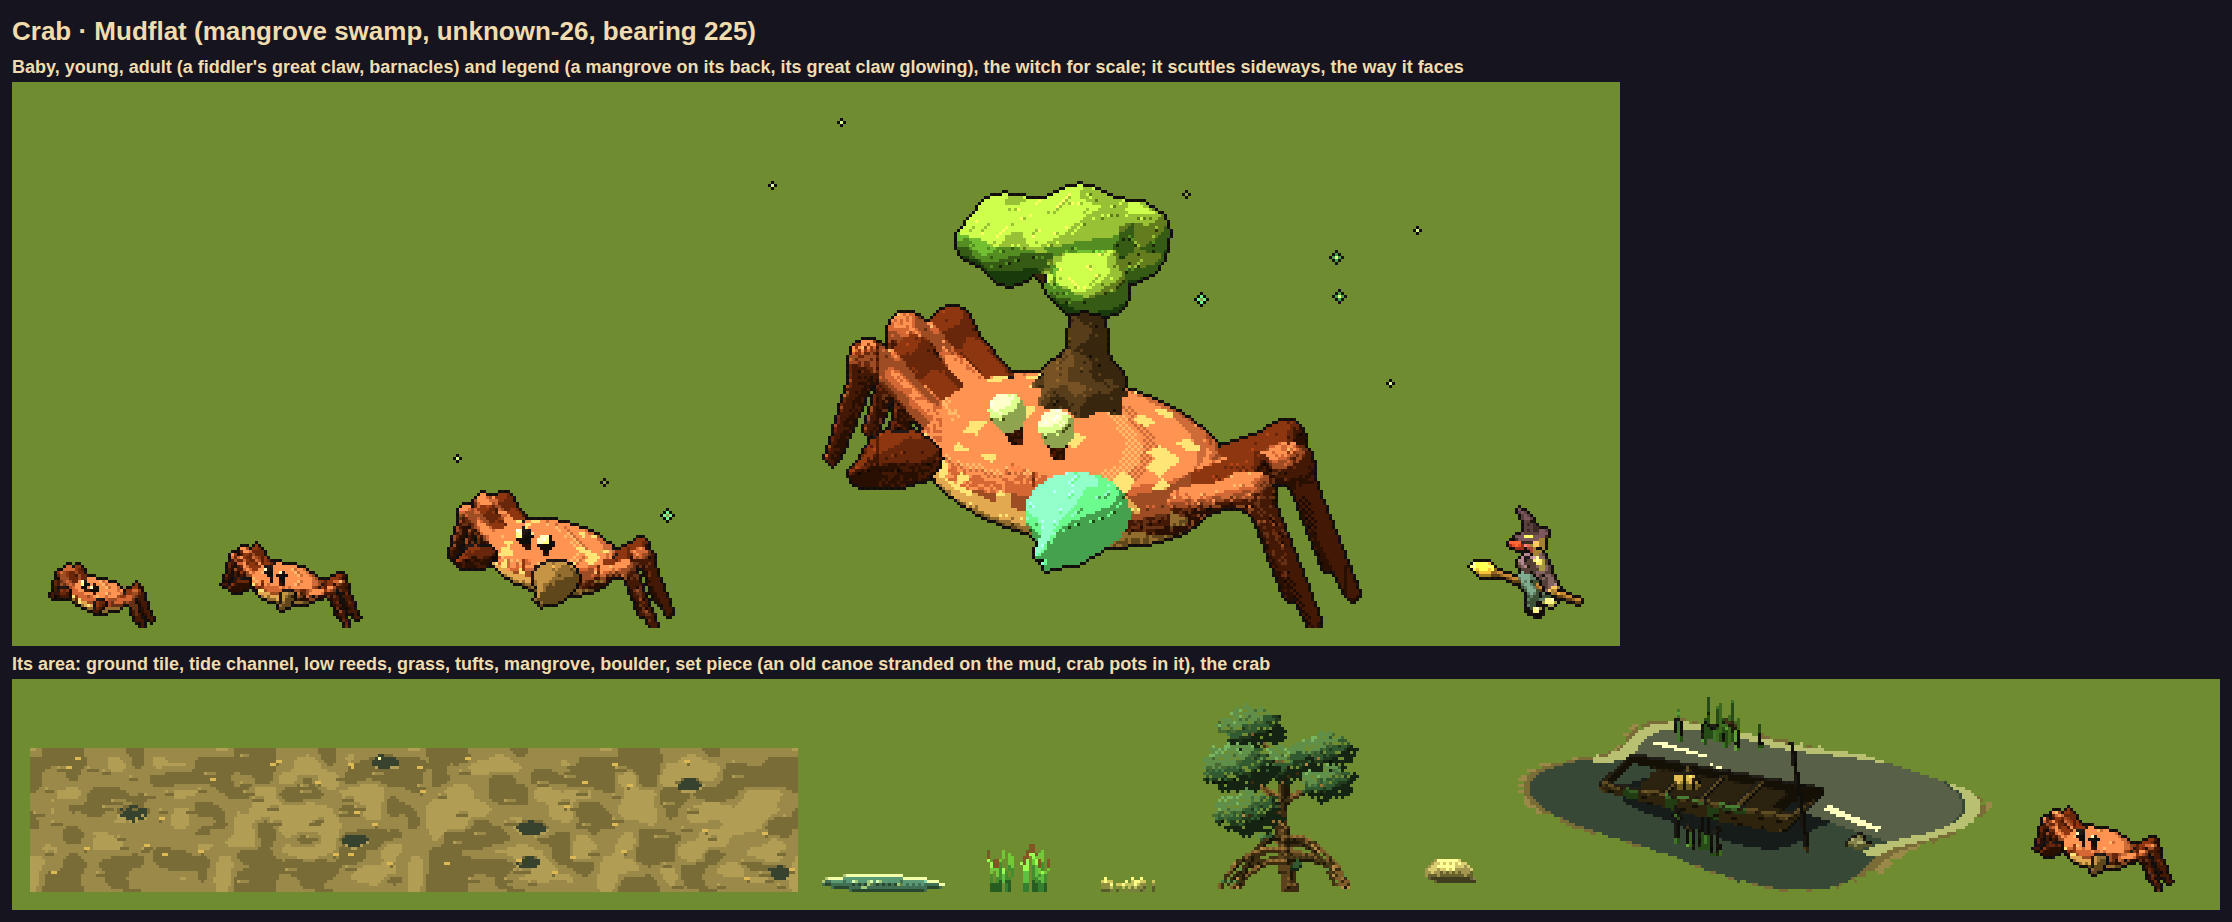
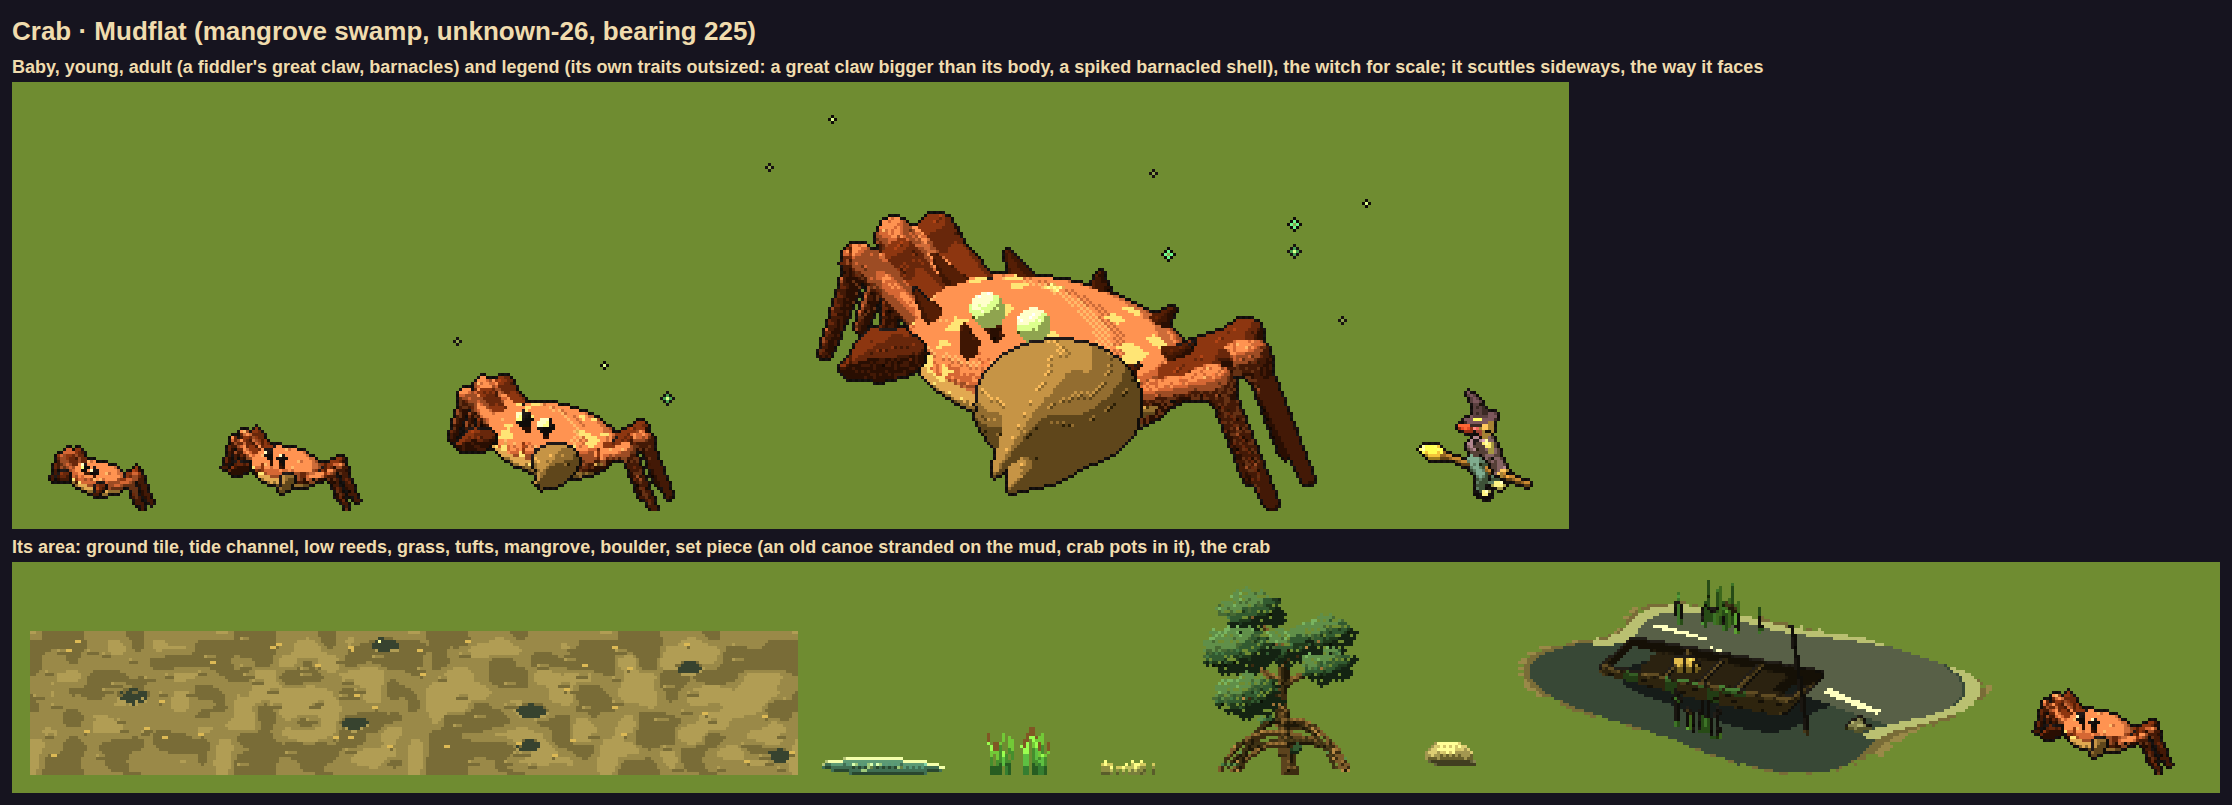
Mangrove mocks: the legends exaggerate their own animal (Ed): the dragonfly all eye and wing, the crab all claw and armour
Claude-Session: https://claude.ai/code/session_01FVGKHvaavDn5xGsWtRTBaz

Changed region(s): [[0.0, 0.0, 1.0, 0.9938]]

diff --git a/art/creatures3d.js b/art/creatures3d.js
@@ -880,7 +880,8 @@ export function moth3d(S, level, frame, st, facing = "towards") {
 // with four long glassy wings, veined, a dark mark near each tip; a long thin segmented tail, a stout thorax, a head that is nearly
 // all eye. Its levels (the genome's levelQ): the baby a wingless nymph down on six legs with wing buds and a hinged mask under its
 // jaw (a nymph lives in the water; DECISION FOR ED), the young freshly out, its wings short and its colours dull, the adult bright
-// and metallic, the legend's wings long and glowing, a trail of light off its tail. Two frames: wings raised, wings lowered.
+// and metallic, the legend its own traits outsized (Ed: a legend exaggerates what defines its animal): eyes wrapping its whole
+// head (feature eyesHuge), a third pair of wings (wingsMore), a longer tail. Two frames: wings raised, wings lowered.
 const dfWing = (mat, vein, stig) => (s, t) => {
   const u = (s + 1) / 2, half = .9 * Math.pow(Math.sin(Math.PI * Math.min(1, .06 + u * .97)), .55) * (1 - .2 * u);
   if (Math.abs(t) > half) return null;
@@ -904,22 +905,21 @@ export function dragonfly3d(S, level, frame, st, facing = "towards") {
     m.anchors.neck = { c: [.1, y + .05, 0], r: .09, dir: [1, 0, 0] };
     return finish(m, S, level, st, .35, facing);
   }
-  const up = frame === 0, y = .55, span = (q.wing ?? 1) * (has("wingsBig") ? 1.35 : 1), tl = q.tail ?? 1;
-  const glass = has("wingsBig") ? M.MAGIC2 : M.BELLY, vein = has("wingsBig") ? M.MAGIC : M.BODY3, stig = has("wingsBig") ? M.MAGIC : M.BODY3;
+  const up = frame === 0, y = .55, span = q.wing ?? 1, tl = q.tail ?? 1;
+  const glass = M.BELLY, vein = M.BODY3, stig = M.BODY3, pairs = has("wingsMore") ? [[0, .05, .62], [1, -.06, .58], [2, -.16, .5]] : [[0, .05, .62], [1, -.06, .58]];
   shadow(m, -.15, .2 * span);
-  for (const side of [-1, 1]) for (const [k, dx, len] of [[0, .05, .62], [1, -.06, .58]]) { // fore and hind wings, straight out, flicking up and down
+  for (const side of [-1, 1]) for (const [k, dx, len] of pairs) { // fore and hind wings, straight out, flicking up and down
     const lift = (up ? .45 : -.25) * (k ? .8 : 1), root = [dx, y + .07, side * .05], dir = v3.norm([k ? -.18 : .12, lift, side]);
     const across = v3.norm(v3.cross(dir, [0, 1, 0]));
     m.flat(v3.add(root, v3.mul(dir, len * span * .5)), dir, across, len * span * .5, (k ? .16 : .13) * span, dfWing(glass, vein, stig), { group: 10 + k * 2 + (side > 0 ? 1 : 0), extra: true });
   }
   // the tail: ten segments, long and thin, banded, curving a little down
   for (let i = 0; i < 10; i++) { const t = i / 9, x = -.12 - t * .78 * tl, yy = y - .02 - t * t * .1; m.ell([x, yy, 0], [.05 * tl, .036 - t * .008, .036 - t * .008], i % 3 === 2 ? M.BODY3 : i % 2 ? M.BODY2 : M.BODY, { group: 3 }); }
-  if (has("trail")) for (let i = 0; i < 4; i++) m.ell([-1.02 - i * .1, y - .13 - i * .015, 0], [.025 - i * .004, .025 - i * .004, .025 - i * .004], i % 2 ? M.MAGIC : M.MAGIC2, { group: 90 + i, extra: true });
   m.ell([0, y, 0], [.13, .1, .09], M.BODY, { group: 1, paint: p => p[1] > y + .05 ? M.BODY2 : undefined }); // the thorax
   for (const side of [-1, 1]) for (let i = 0; i < 3; i++) m.seg([.03 - i * .04, y - .07, side * .04], [.08 - i * .07, y - .13, side * .09], .01, .006, M.BODY3, { group: side > 0 ? 7 : 2 }); // its legs, held under it
-  const hc = [.16, y + .02, 0], hr = [.08, .085, .11];
+  const ek = has("eyesHuge") ? 1.6 : 1, hc = [.16, y + .02, 0], hr = [.08 * ek, .085 * ek, .11 * ek];
   m.ell(hc, hr, M.BODY2, { group: 1 });
-  for (const side of [-1, 1]) m.ell(Model.surface(hc, hr, v3.norm([.3, .4, side])), [.07, .075, .06], legend ? M.MAGIC2 : M.EYE, { group: 8 + (side > 0 ? 1 : 0), paint: p => p[1] > hc[1] + .07 ? M.BELLY : undefined }); // the great eyes
+  for (const side of [-1, 1]) m.ell(Model.surface(hc, hr, v3.norm([.3, .4, side])), [.07 * ek, .075 * ek, .06 * ek], legend ? M.MAGIC2 : M.EYE, { group: 8 + (side > 0 ? 1 : 0), paint: p => p[1] > hc[1] + .07 * ek ? M.BELLY : undefined }); // the great eyes
   m.anchors.head = { c: hc, r: hr, top: [hc[0], hc[1] + .1, 0] };
   m.anchors.eyes = { pts: [-1, 1].map(side => Model.surface(hc, hr, v3.norm([.3, .4, side]))), size: .06 };
   m.anchors.neck = { c: [.09, y, 0], r: .08, dir: [1, 0, 0] };
@@ -929,8 +929,9 @@ export function dragonfly3d(S, level, frame, st, facing = "towards") {
 // The crab (Ed, 2026-10-12: the mangrove swamp's mudflats and roots, unknown-26; "sideways scuttling movement"): a broad carapace
 // carried sideways, so it scuttles the way it faces: its length across the screen, its claws and stalked eyes towards the camera,
 // four walking legs out to each side, stepping in two alternating sets. Its levels (levelQ): the baby small, round and pale, its claws
-// alike; the young a darker shell and one claw growing; the adult a fiddler's great claw, barnacles on its shell; the legend a giant
-// with a mangrove growing from its back (feature tree) and its great claw glowing (feature clawGlow).
+// alike; the young a darker shell and one claw growing; the adult a fiddler's great claw, barnacles on its shell; the legend its own
+// traits outsized (Ed: a legend exaggerates what defines its animal): a great claw bigger than its body (levelQ claw) and a
+// shell spiked round its rim and crusted with barnacles (feature spikes).
 export function crab3d(S, level, frame, st, facing = "towards") {
   const legend = level === 3, has = f => legend && S.legend.includes(f), m = new Model(), q = S.levelQ?.[level] || {};
   const cw = q.shell ?? 1, big = q.claw ?? 1, y = .3 * cw;
@@ -942,7 +943,7 @@ export function crab3d(S, level, frame, st, facing = "towards") {
   m.ell(shell, sr, M.BODY, { paint: p => (q.barnacles && spotty(p, 18, .12)) ? M.BELLY : p[1] > y + sr[1] * .55 ? M.BODYL : undefined }); // the carapace, its top lit
   m.ell([0, y - sr[1] * .4, sr[2] * .3], [sr[0] * .85, sr[1] * .55, sr[2] * .8], M.BELLY, { group: 1 }); // its pale underside in front
   for (const side of [-1, 1]) { // the claws, at the front (towards the camera), the right one the great claw on a fiddler
-    const k = side > 0 ? big : 1, cm = has("clawGlow") && side > 0 ? M.MAGIC : side > 0 && big > 1.2 ? M.ACCENT : M.BODY2;
+    const k = side > 0 ? big : 1, cm = side > 0 && big > 1.2 ? M.ACCENT : M.BODY2;
     const el = [side * .22 * cw, y - .02, sr[2] * .9], hand = [side * (.24 + .06 * k) * cw, y + (.06 + .05 * k) * cw, (sr[2] + .1 + .06 * k) * cw];
     m.seg([side * .16 * cw, y - .04, sr[2] * .6], el, .04 * cw, .035 * cw, M.BODY2, { group: side > 0 ? 6 : 5 });
     m.ell(hand, [.1 * k * cw, .07 * k * cw, .08 * k * cw], cm, { group: side > 0 ? 6 : 5, dir: [side * .4, .3, 1] });
@@ -952,7 +953,7 @@ export function crab3d(S, level, frame, st, facing = "towards") {
   m.anchors.head = { c: [0, y + sr[1] * .7, sr[2] * .7], r: [.12, .1, .1], top: [0, y + sr[1] + .12, 0] };
   m.anchors.eyes = { pts: [-1, 1].map(side => [side * .09 * cw, y + sr[1] * .6 + .14 * cw, sr[2] * .7 + .04 * cw]), size: .04 * cw };
   m.anchors.neck = { c: [0, y + sr[1] * .2, sr[2] * .6], r: .14 * cw, dir: [0, 0, 1] };
-  if (has("tree")) backTree3d(m, [-.05, y + sr[1] * .8, -.08], .62, 7, "mangrove");
+  if (has("spikes")) for (let i = 0; i < 9; i++) { const a = Math.PI * (.08 + i / 8 * .84), b = [Math.cos(a) * sr[0] * .95, y + sr[1] * .35, Math.sin(a) * sr[2] * .95 * (i % 2 ? 1 : -1)]; m.seg(b, v3.add(b, [Math.cos(a) * .12 * cw, .1 * cw, 0]), .035 * cw, .006, M.BODY3, { group: 4 }); } // spikes round its rim
   return finish(m, S, level, st, .45, facing);
 }
 

diff --git a/art/genome/species.js b/art/genome/species.js
@@ -138,13 +138,13 @@ export const GENOMES = [
   // the heronry's heron (an area recipe's, #119; art builder 2's heron builder): a tall grey wader, S-necked, dagger-billed
   { id: "heron", name: "Heron", template: "avian", builder: "heron", palette: { hue: .6, sat: .08, val: .62 }, legend: ["wings"], texture: { kind: "feathers" } },
   // the mangrove swamp's dragonfly (Ed, 2026-10-12, unknown-10): a hawker over the water, metallic blue-green, four glassy veined wings,
-  // its baby a wingless nymph down on its legs, its legend's wings long and glowing with a trail of light behind it
-  { id: "dragonfly", name: "Dragonfly", template: "flyer", builder: "dragonfly", palette: { hue: .5, sat: .62, val: .62 }, legend: ["wingsBig", "trail"], texture: { kind: "plates", size: 2 },
-    levels: [{ body: { nymph: true } }, { body: { wing: .72, tail: .85 } }, { body: { wing: 1, tail: 1 } }, { body: { wing: 1.1, tail: 1.1 } }] },
+  // its baby a wingless nymph down on its legs, its legend all eye and wing: eyes wrapping its head, three pairs of wings
+  { id: "dragonfly", name: "Dragonfly", template: "flyer", builder: "dragonfly", palette: { hue: .5, sat: .62, val: .62 }, legend: ["eyesHuge", "wingsMore"], texture: { kind: "plates", size: 2 },
+    levels: [{ body: { nymph: true } }, { body: { wing: .72, tail: .85 } }, { body: { wing: 1, tail: 1 } }, { body: { wing: 1.2, tail: 1.35 } }] },
   // the mangrove swamp's crab (Ed, 2026-10-12, unknown-26): a mudflat fiddler that scuttles sideways, its shell orange-red, one great claw
-  // on an adult, barnacles; its legend a giant with a mangrove growing from its back and its great claw glowing
-  { id: "crab", name: "Crab", template: "insectoid", builder: "crab", palette: { hue: .02, sat: .62, val: .58 }, legend: ["tree", "clawGlow"], texture: { kind: "plates", size: 3 },
-    levels: [{ body: { shell: .85, claw: 1 } }, { body: { shell: 1, claw: 1.25 } }, { body: { shell: 1, claw: 1.8, barnacles: true } }, { body: { shell: 1.05, claw: 1.6, barnacles: true } }] },
+  // on an adult, barnacles; its legend all claw and armour: a great claw bigger than its body, a spiked, barnacled shell
+  { id: "crab", name: "Crab", template: "insectoid", builder: "crab", palette: { hue: .02, sat: .62, val: .58 }, legend: ["spikes"], texture: { kind: "plates", size: 3 },
+    levels: [{ body: { shell: .85, claw: 1 } }, { body: { shell: 1, claw: 1.25 } }, { body: { shell: 1, claw: 1.8, barnacles: true } }, { body: { shell: 1.05, claw: 2.8, barnacles: true } }] },
   { id: "glowworm", name: "Glow-worm", template: "serpent", builder: "glowworm", palette: { hue: .12, sat: .4, val: .35 }, legend: ["lantern"] , texture: { kind: "plates", size: 3 } },
   { id: "spider", name: "Spider", template: "insectoid", builder: "spider", palette: { hue: .07, sat: .45, val: .4 }, legend: ["eyesRing"] , texture: { kind: "bristles", size: 2 } },
   { id: "dormouse", name: "Dormouse", template: "quadruped", builder: "quad", palette: { hue: .09, sat: .6, val: .75, belly: "white" }, body: { hgt: .38, len: .45, chest: .35, tuck: .38, neck: .15, neckAng: .6, neckW: .4, hr: .34, legW: .8, back: "arch" }, head: { snout: .45, snoutD: .7, whiskers: true, eyeK: 1.6 }, parts: { ears: { kind: "round", size: .85 }, tail: "dormouse", feet: "paw" }, coat: { belly: true }, legend: ["starTail"] },
